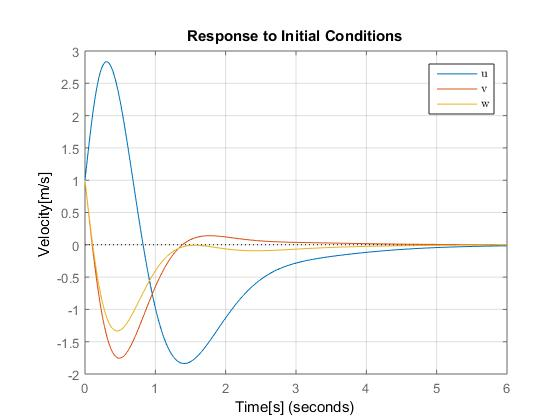
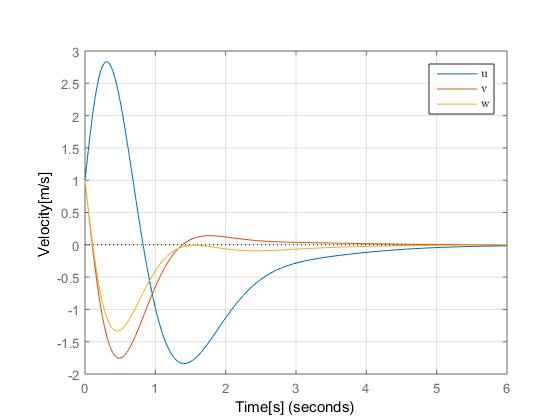
Figure control
Removed labels.

Changed region(s): [[0.3339, 0.0619, 0.7286, 0.1238]]

diff --git a/MATLABCODE/Control/control.m b/MATLABCODE/Control/control.m
@@ -130,18 +130,22 @@ figure(1)
 ylabel('Angle[rad]')
 legend('$\phi$','$\theta$','$\psi$')
 xlabel('Time[s]')
+title('')
 figure(2)
 ylabel('Angular velocity[rad/s]')
 legend('p','q','r')
 xlabel('Time[s]')
+title('')
 figure(3)
 ylabel('Velocity[m/s]')
 legend('u','v','w')
 xlabel('Time[s]')
+title('')
 figure(4)
 ylabel('Position[m]')
 legend('x','y','z')
 xlabel('Time[s]')
+title('')
  %H = tf(sys_cl);
 % clf
 % for i = 1:12
